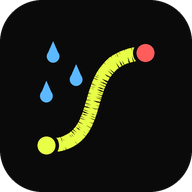
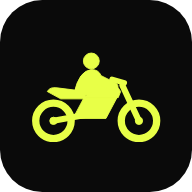
Publish RouteCast 10.4 sharing

diff --git a/routecast/index.html b/routecast/index.html
@@ -64,6 +64,16 @@
        "Torna ai percorsi" diventa la freccia in alto a sinistra.
        Su un telefono 360×633 la mappa libera passa da 266 a 445 px.
 
+  V10.4 (2026-11-16) — short links, social preview, new icon
+   29. Share sends a message (route, weather, km, time, tolls) that ends
+       with a SHORT link when CONFIG.shareApi is set; the short link has
+       a dynamic social preview (share-links service, Cloudflare Worker).
+       Service off, slow or down → the long link, exactly as before.
+   30. ?r=<id> opens a shared route (route read back from the service).
+   31. Brand name, public address and share service in CONFIG.
+   32. Motorcycle pictogram (road-sign style) replaces the emoji in the
+       empty state and is the new app icon; static og: tags for long links.
+
   Versione: tenere allineati APP_VERSION (qui) e CACHE (sw.js).
 ═══════════════════════════════════════════════════════════════════
 -->
@@ -78,9 +88,23 @@
 <meta name="theme-color" content="#0a0a0a">
 <meta name="color-scheme" content="dark">
 <link rel="manifest" href="manifest.webmanifest">
-<link rel="icon" type="image/png" href="icon-192.png">
-<link rel="apple-touch-icon" href="icon-192.png">
+<link rel="icon" type="image/svg+xml" href="icon.svg">
+<link rel="icon" type="image/png" sizes="32x32" href="favicon-32.png">
+<link rel="apple-touch-icon" href="apple-touch-icon.png">
 <title>RouteCast</title>
+<!-- Social preview for the plain (long) link. Short links get a dynamic preview
+     from the share-links service. BRAND: name, address and image are repeated
+     here because crawlers read static HTML only — see README-C1, "Renaming". -->
+<meta property="og:type" content="website">
+<meta property="og:site_name" content="RouteCast">
+<meta property="og:title" content="RouteCast — weather along your ride">
+<meta property="og:description" content="See the weather along your motorcycle route, kilometre by kilometre.">
+<meta property="og:url" content="https://aigen-c.com/routecast/">
+<meta property="og:image" content="https://aigen-c.com/routecast/og-default.png">
+<meta property="og:image:type" content="image/png">
+<meta property="og:image:width" content="1200">
+<meta property="og:image:height" content="630">
+<meta name="twitter:card" content="summary_large_image">
 <link rel="preconnect" href="https://cdnjs.cloudflare.com" crossorigin>
 <link rel="preconnect" href="https://fonts.gstatic.com" crossorigin>
 <link rel="preconnect" href="https://photon.komoot.io" crossorigin>
@@ -286,7 +310,8 @@ input[type=range]::-moz-range-thumb{width:22px;height:22px;border:none;border-ra
 @media (pointer:coarse){.leaflet-control-zoom{display:none}}
 
 #empty-state{position:absolute;top:44%;left:50%;transform:translate(-50%,-50%);text-align:center;pointer-events:none;z-index:450;background:rgba(14,14,14,0.92);border:1px solid rgba(232,255,71,.55);border-radius:var(--radius);padding:24px 30px 22px;width:max-content;max-width:92%;box-shadow:0 8px 28px rgba(0,0,0,.48)}
-.es-icon{font-size:42px;margin-bottom:9px}
+.es-icon{margin-bottom:10px;color:var(--accent);line-height:0}
+.es-picto{width:92px;height:auto}
 .es-txt{font-family:var(--mono);font-size:18px;font-weight:700;color:var(--accent);letter-spacing:.06em;text-transform:uppercase}
 .es-sub{font-family:var(--mono);font-size:13px;font-weight:500;color:var(--accent);opacity:.82;margin-top:8px;line-height:1.5}
 
@@ -296,6 +321,7 @@ input[type=range]::-moz-range-thumb{width:22px;height:22px;border:none;border-ra
 #share-btn svg{width:17px;height:17px;flex-shrink:0}
 /* detail view: the weather banner needs the room → icon only, still yellow */
 #share-btn.compact{width:40px;min-width:40px;padding:0}
+#share-btn.busy{opacity:.6;pointer-events:none}
 #share-btn.compact .lbl{display:none}
 
 /* portrait only: a phone held sideways gets this instead of a squeezed map */
@@ -343,7 +369,7 @@ body.landscape-phone #rotate{display:flex}
   </form>
 
   <div id="map">
-    <div id="empty-state"><div class="es-icon">🏍</div><div class="es-txt">Enter your route</div><div class="es-sub">See what weather lies ahead<br>kilometre by kilometre</div></div>
+    <div id="empty-state"><div class="es-icon"><svg class="es-picto" viewBox="10 -8 220 152" aria-hidden="true"><g fill="none" stroke="currentColor" stroke-linecap="round" stroke-linejoin="round"><circle cx="50" cy="108" r="29" stroke-width="12"/><circle cx="190" cy="108" r="29" stroke-width="12"/><path d="M190 108 L163 50" stroke-width="10"/><path d="M166 46 L146 40" stroke-width="9"/><path d="M50 108 L104 98" stroke-width="10"/></g><g fill="currentColor" stroke="currentColor" stroke-width="1.5" stroke-linejoin="round"><circle cx="50" cy="108" r="6"/><circle cx="190" cy="108" r="6"/><path d="M82 104 L100 70 L154 70 L136 104 Z"/><path d="M104 66 Q112 44 134 44 Q152 44 160 60 L156 70 L102 70 Z"/><path d="M40 60 Q44 52 56 54 L104 60 L102 72 L62 72 Z"/><circle cx="112" cy="10" r="13"/><path d="M84 62 Q92 26 112 24 Q124 24 128 34 L152 46 Q158 50 154 56 Q150 60 144 57 L122 48 L108 66 Z"/></g></svg></div><div class="es-txt">Enter your route</div><div class="es-sub">See what weather lies ahead<br>kilometre by kilometre</div></div>
     <div id="alert-banner" role="status"></div>
     <button type="button" id="share-btn" title="Share this route" aria-label="Share route"><svg viewBox="0 0 24 24" fill="none" stroke="currentColor" stroke-width="2.4" stroke-linecap="round" stroke-linejoin="round" aria-hidden="true"><path d="M12 15V3"/><path d="M7.5 7.5 12 3l4.5 4.5"/><path d="M5 12v7a2 2 0 0 0 2 2h10a2 2 0 0 0 2-2v-7"/></svg><span class="lbl">Share</span></button>
   </div>
@@ -362,7 +388,18 @@ body.landscape-phone #rotate{display:flex}
 
 <script>
 'use strict';
-const APP_VERSION='10.3';            // ← tenere allineato a CACHE in sw.js
+// ════════════ CONFIG ════════════
+// Brand and share service in ONE place. To change a value without editing this
+// file, define window.ROUTECAST_CONFIG = {...} in a script loaded before this one.
+// Nothing here is secret: it is all public by nature.
+const CONFIG=Object.assign({
+  brandName:'RouteCast',
+  publicUrl:'https://aigen-c.com/routecast/',   // address used in long links when the page is not served from a site
+  shareApi:'https://routecast-share.share-links.workers.dev', // short-link and social-preview service
+  shareTimeoutMs:3000,                          // how long Share waits for a short link before using the long one
+  shareIntro:'Here\u2019s the weather along my route.',
+},window.ROUTECAST_CONFIG||{});
+const APP_VERSION='10.4';            // ← tenere allineato a CACHE in sw.js
 
 // ════════════ SMALL HELPERS ════════════
 const $=id=>document.getElementById(id);
@@ -462,6 +499,7 @@ let detailSamples=null,detailMk=[];
 let myPos=null;                // [lat,lon] from geolocation
 const MY_POS='My location';
 const routeColors=['#1a73e8','#8ab4f8','#aecbfa'];
+const placeLabel=new Map();    // text shown in the input → short name for sharing (the town)
 const placeCache=new Map();    // text shown in the input → [lat,lon]
 const SLIDER_MIN=-6,SLIDER_MAX=12;   // half-hours around the departure
 
@@ -503,7 +541,7 @@ async function geocode(q){
   try{if(!arr||!arr.length)arr=await geocodeSearch(q,1)}catch(e){throw new AppError('Place search is unavailable. Check your connection and try again.')}
   if(!arr.length)throw new AppError(`I cannot find "${q}". Try selecting a suggestion from the list.`,{notFound:q});
   const[lon,lat]=arr[0].geometry.coordinates;
-  placeCache.set(q,[lat,lon]);
+  placeCache.set(q,[lat,lon]);placeLabel.set(q,fmtPlace(arr[0]).label);
   return[lat,lon];
 }
 function fmtPlace(feat){
@@ -515,14 +553,14 @@ function fmtPlace(feat){
   else if(p.state&&p.state!==main)parts.push(p.state);
   if(p.country)parts.push(p.country);
   const ctx=parts.join(', ');
-  return{main,ctx,text:main+(ctx?', '+ctx:''),coord:[lat,lon]};
+  return{main,ctx,text:main+(ctx?', '+ctx:''),coord:[lat,lon],label:p.city||p.name||main};
 }
 
 function wireAutocomplete(input,list){
   let timer=0,items=[],sel=-1,seq=0,ctrl=null;
   const hide=()=>{list.classList.remove('visible');sel=-1};
   const cancel=()=>{clearTimeout(timer);seq++;ctrl?.abort();ctrl=null};
-  function pick(it){input.value=it.text;placeCache.set(it.text,it.coord);input.classList.remove('bad');cancel();hide()}
+  function pick(it){input.value=it.text;placeCache.set(it.text,it.coord);placeLabel.set(it.text,it.label);input.classList.remove('bad');cancel();hide()}
   function render(){
     list.innerHTML=items.map((it,i)=>`<div class="ac-item${i===sel?' sel':''}" data-i="${i}"><div>${esc(it.main)}</div>${it.ctx?`<div class="ac-sub">${esc(it.ctx)}</div>`:''}</div>`).join('');
     list.classList.toggle('visible',items.length>0);
@@ -1010,7 +1048,7 @@ function backToOverview(){
 // ════════════ SHARE / URL ════════════
 // Indirizzo pubblico dell'app: usato nel link condiviso quando la pagina non
 // è aperta da un sito (file locale, anteprima) e origin+path non ha senso.
-const PUBLIC_URL='https://aigen-c.com/routecast/';
+const PUBLIC_URL=CONFIG.publicUrl;
 let lastSearch=null;           // {texts:[…], coords:[[lat,lon],…]} of the routes on screen
 function routeInputs(){return[$('origin'),...document.querySelectorAll('#wp-container input'),$('destination')].filter(el=>el.value.trim()||el.id==='origin'||el.id==='destination')}
 function currentParams(){
@@ -1030,8 +1068,8 @@ function shareUrl(){
   const here=/^https?:$/.test(location.protocol)?location.origin+location.pathname:PUBLIC_URL;
   return here+'?'+currentParams();
 }
-function copyLink(url){
-  const done=()=>showToast('Link copied!',true);
+function copyLink(url,msg){
+  const done=()=>showToast(msg||'Link copied!',true);
   const legacy=()=>{
     const ta=document.createElement('textarea');ta.value=url;ta.setAttribute('readonly','');ta.style.cssText='position:fixed;top:0;left:0;opacity:0';
     document.body.appendChild(ta);ta.select();ta.setSelectionRange(0,url.length);
@@ -1041,15 +1079,123 @@ function copyLink(url){
   };
   if(navigator.clipboard?.writeText)navigator.clipboard.writeText(url).then(done,legacy);else legacy();
 }
-function shareRoute(){
-  if(!allRoutes.length)return;
-  const url=shareUrl();
-  // only title + url: with a "text" field some apps paste the text and drop the link
-  if(navigator.share)navigator.share({title:'RouteCast',url}).catch(e=>{if(!e||e.name!=='AbortError')copyLink(url)});
-  else copyLink(url);
+// ── Share: short link with a preview when the service answers, long link otherwise ──
+const WX_EMOJI={dry:'☀',showers:'🌦',rain:'🌧',storm:'⛈',snow:'❄',gusts:'💨',unknown:'🏍'};
+function durText(min){const h=Math.floor(min/60);return h?`${h}h ${pad2(min%60)}m`:`${min} min`}   // same wording as the preview
+// one word for the weather on a route, from the same figures the cards use
+function wxState(s){
+  if(!s||!s.n)return'unknown';
+  if(s.maxSev>=3)return'storm';
+  if(s.maxSev>=2)return s.worst.label.includes('Snow')?'snow':'rain';
+  if(s.maxPop>=60)return'rain';
+  if(s.maxGust>50)return'gusts';
+  if(s.maxSev>=1||s.maxPop>=30)return'showers';
+  return'dry';
+}
+// the town where a point is, for "My location" and for typed coordinates
+async function reverseLabel(coord){
+  try{
+    const d=await fetchJson(`https://photon.komoot.io/reverse?lat=${coord[0].toFixed(4)}&lon=${coord[1].toFixed(4)}`,{timeout:1500});
+    const p=d&&d.features&&d.features[0]&&d.features[0].properties;
+    return(p&&(p.city||p.name||p.county))||null;
+  }catch(e){return null}
+}
+async function shortLabel(text,coord){
+  if(placeLabel.has(text))return placeLabel.get(text);
+  let label=null;
+  if(text===MY_POS||COORD_RX.test(text))label=await reverseLabel(coord)||'Pinned point';
+  else label=text.split(',')[0].trim();
+  placeLabel.set(text,label);
+  return label;
+}
+// what is shared = the route on screen: the open one, or the first card
+function sharedRoute(){
+  const route=mode==='detail'?allRoutes[detailIdx]:allRoutes[0];
+  const dep=mode==='detail'?getSliderDepTs():baseDepTs;
+  const sum=route.pano?summarise(route,route.pano,dep):route.summary;
+  return{route,dep,wx:wxState(sum)};
+}
+async function buildShare(){
+  const{route,dep,wx}=sharedRoute(),d=new Date(dep*1000);
+  const names=await Promise.all(lastSearch.texts.map((t,i)=>shortLabel(t,lastSearch.coords[i])));
+  return{
+    from:names[0],to:names[names.length-1],via:names.slice(1,-1),
+    pts:lastSearch.coords.map(c=>[+c[0].toFixed(5),+c[1].toFixed(5)]),
+    date:localDateStr(d),time:`${pad2(d.getHours())}:${pad2(d.getMinutes())}`,step:parseInt($('step-km').value,10)||10,
+    km:Math.round(route.distanceKm),min:Math.floor(route.ridingSec/60),tolls:!!route.hasToll,wx,
+  };
+}
+async function createShortLink(payload){
+  if(!CONFIG.shareApi)return null;
+  try{
+    const ctrl=new AbortController(),timer=setTimeout(()=>ctrl.abort(),CONFIG.shareTimeoutMs);
+    const r=await fetch(CONFIG.shareApi.replace(/\/+$/,'')+'/api/links',{method:'POST',headers:{'content-type':'application/json'},body:JSON.stringify(payload),signal:ctrl.signal});
+    clearTimeout(timer);
+    if(!r.ok)return null;
+    const d=await r.json();
+    return d&&typeof d.url==='string'&&/^https:\/\//.test(d.url)?d.url:null;
+  }catch(e){return null}       // service slow, down or over quota → the long link does the job
+}
+function shareMessage(p,url){
+  return `🏍 ${[p.from,...p.via,p.to].join(' → ')}\n${CONFIG.shareIntro}\n${WX_EMOJI[p.wx]} ${p.km} km · ${durText(p.min)} · ${p.tolls?'Tolls':'No tolls'}\n\n${url}`;
+}
+const shareCache=new Map();    // what was on screen → {text, until}: message already built (no second link for the same thing)
+let sharing=false;
+function deliverShare(text){
+  // the link travels INSIDE the text: with a separate "url" field some apps keep only one of the two
+  if(!navigator.share){copyLink(text,'Message with link copied!');return}
+  navigator.share({text}).catch(e=>{
+    if(e&&e.name==='AbortError')return;
+    // iOS refuses a share sheet that does not follow a tap directly: the message is ready, one more tap opens it
+    if(e&&e.name==='NotAllowedError')showToast('Link ready — tap Share again',true);
+    else copyLink(text,'Message with link copied!');
+  });
+}
+async function shareRoute(){
+  if(!allRoutes.length||!lastSearch||sharing)return;
+  const s=sharedRoute();
+  const key=[lastSearch.texts.join('|'),lastSearch.coords.join(';'),s.dep,s.wx,mode==='detail'?detailIdx:0,allRoutes.length].join('#');
+  const hit=shareCache.get(key);
+  if(hit&&Date.now()<hit.until){deliverShare(hit.text);return}   // second tap: no waiting, straight to the share sheet
+  sharing=true;$('share-btn').classList.add('busy');
+  let text;
+  try{
+    const payload=await buildShare();
+    const short=await createShortLink(payload);
+    text=shareMessage(payload,short||shareUrl());
+    if(shareCache.size>20)shareCache.clear();
+    // a long-link fallback is remembered for 2 minutes only, then the short link is tried again
+    shareCache.set(key,{text,until:short||!CONFIG.shareApi?Infinity:Date.now()+120000});
+  }catch(e){text=shareUrl()}
+  sharing=false;$('share-btn').classList.remove('busy');
+  deliverShare(text);
+}
+// a short link was opened: ask the service for the route behind it
+async function openSharedLink(id){
+  if(!/^[0-9A-Za-z]{6,12}$/.test(id)||!CONFIG.shareApi){showToast('This shared link is not valid.');return}
+  setLoading('Opening shared route…');
+  let d;
+  try{d=await fetchJson(CONFIG.shareApi.replace(/\/+$/,'')+'/api/links/'+id,{timeout:9000})}
+  catch(e){
+    clearLoading();
+    showToast(e.status===404?'This shared link has expired or is not valid.':'Could not open the shared route. Check your connection and try again.');
+    return;
+  }
+  const ok=d&&typeof d.from==='string'&&typeof d.to==='string'&&Array.isArray(d.via)&&Array.isArray(d.pts)&&d.pts.length===d.via.length+2
+    &&d.pts.every(c=>Array.isArray(c)&&Number.isFinite(c[0])&&Number.isFinite(c[1])&&Math.abs(c[0])<=90&&Math.abs(c[1])<=180);
+  if(!ok){clearLoading();showToast('This shared link is not valid.');return}
+  $('origin').value=d.from;$('destination').value=d.to;
+  d.via.slice(0,2).forEach(v=>addWaypoint(String(v)));
+  if(/^\d{4}-\d\d-\d\d$/.test(d.date||''))$('dep-date').value=d.date;
+  if(/^\d\d:\d\d$/.test(d.time||''))$('dep-time').value=d.time;
+  if([5,10,15,20].includes(d.step))$('step-km').value=String(d.step);
+  routeInputs().forEach((el,i)=>{const t=el.value.trim();placeCache.set(t,d.pts[i]);placeLabel.set(t,t)});
+  clearLoading();
+  computeRoute();
 }
 function loadFromUrl(){
   const p=new URLSearchParams(location.search);
+  if(p.get('r')){openSharedLink(p.get('r'));return}
   if(p.get('da'))$('origin').value=p.get('da');
   if(p.get('a'))$('destination').value=p.get('a');
   (p.get('tappe')||'').split('|').filter(Boolean).slice(0,2).forEach(addWaypoint);

diff --git a/routecast/sw.js b/routecast/sw.js
@@ -1,7 +1,7 @@
 // RouteCast service worker — tenere CACHE allineato a APP_VERSION in index.html
-const CACHE = 'routecast-v10.3';
+const CACHE = 'routecast-v10.4';
 const SHELL = [
-  './', 'manifest.webmanifest', 'icon-192.png',
+  './', 'manifest.webmanifest', 'icon-192.png', 'icon.svg',
   'https://cdnjs.cloudflare.com/ajax/libs/leaflet/1.9.4/leaflet.min.css',
   'https://cdnjs.cloudflare.com/ajax/libs/leaflet/1.9.4/leaflet.min.js',
 ];
